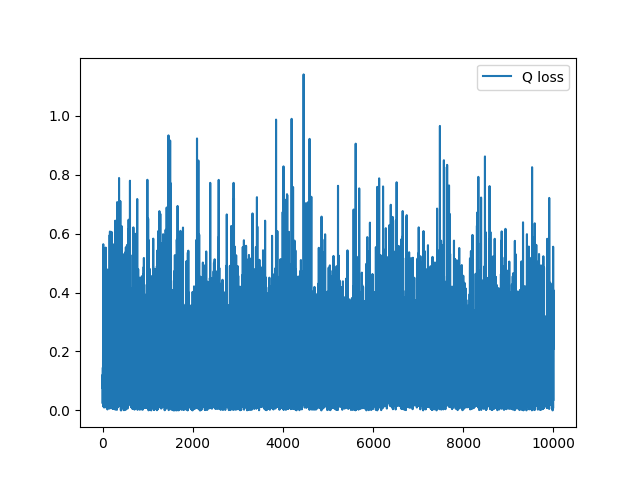
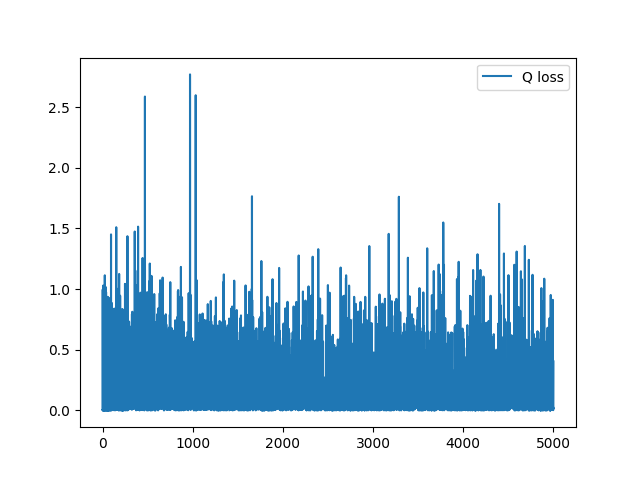
correction algo

diff --git a/actorcritic/batch_Q_based/a2c.py b/actorcritic/batch_Q_based/a2c.py
@@ -5,7 +5,7 @@ import os
 import matplotlib.pyplot as plt
 import numpy as np
 
-def A2C(buffer,Qvalue,optimizerQ,p,optimizerpi,env,N, batch_size, n_epochs, loadpath,loadopt, freqsave=100, epsilon = 0.1, K = 1, start = 0):
+def A2C(buffer,Qvalue,optimizerQ,p,optimizerpi,env,N, batch_size, n_epochs, loadpath,loadopt, freqsave=100, epsilon = 0.1, K = 1, start = 0, gamma =.9):
 
     def collection(M):
         #choose some policy for the collection like the greedy one
@@ -14,42 +14,25 @@ def A2C(buffer,Qvalue,optimizerQ,p,optimizerpi,env,N, batch_size, n_epochs, load
                      "new_state":[],
                      "reward": []}
         init_samp["state"] = torch.randint(0,env.Nx*env.Ny,(M,))
-        #init_samp["action"]  = Qvalue.amax_epsilon(init_samp["state"], epsilon)
         init_samp["action"]  =  p(init_samp["state"])
         init_samp["new_state"], init_samp["reward"] = env.transitionvec(init_samp["action"], init_samp["state"])
         buffer.store(init_samp)
     listLosspi = []
     listLossQ = []
-    recompense_episodes = []
-    collection(batch_size)
+    retour_episodes = []
 
     for j in range(start,n_epochs+1):
         #step 1
-        s = torch.randint(0,env.Nx*env.Ny,(1,))
-        if torch.bernoulli(torch.Tensor([epsilon])):
-            a = torch.randint(0,env.Na,(1,)) 
-        else:
-            a = p(s)
-        sp,r = env.transition(a,s)
-        #buffer.print()
-        init_samp = {"state": [s],
-                     "action": [a],
-                     "new_state":[sp],
-                     "reward": [r]}
-        #print("init_samp", init_samp)
-        buffer.store(init_samp)
-        #buffer.print()
+        collection(batch_size)
         #step 2
-        #s,a,sp,r = buffer.sample(batch_size)
-
         samp = buffer.sample(batch_size)
         for i in range(K):
             ap = p(samp["new_state"])
             #step 3 Q update
-            targets = samp["reward"] + env.gamma*Qvalue(samp["new_state"],ap).squeeze()
+            targets = samp["reward"] + gamma*Qvalue(samp["new_state"],ap).squeeze()
             #targets computation
             optimizerQ.zero_grad()
-            loss = F.mse_loss(Qvalue(samp["state"],samp["action"]).squeeze(),targets)
+            loss = F.mse_loss(Qvalue(samp["state"],samp["action"]).squeeze(),targets.squeeze())
             loss.backward()
             optimizerQ.step()
             #step 4 and 5
@@ -58,13 +41,13 @@ def A2C(buffer,Qvalue,optimizerQ,p,optimizerpi,env,N, batch_size, n_epochs, load
             api, logits_ap = p(samp["state"], logit = True)
             logpi = F.cross_entropy(logits_ap,env.representationaction(api),weight = None, reduction = 'none')
             #V_batch est l'espérance conditionnelle de Q par rapport à s.
-            #V_batch = torch.stack([torch.sum(torch.mul(Qvalue([si]*env.Na,torch.arange(env.Na)).squeeze(),F.softmax(logits_ap,dim=1).squeeze().detach())) for si in s])
-            #print("V_batch shape", V_batch.shape)
-            advantage = Qvalue(samp["state"],api).squeeze()#-V_batch.detach() 
+            #V_batch = torch.stack([torch.sum(torch.mul(Qvalue([si]*env.Na,torch.arange(env.Na)).squeeze(),F.softmax(logits_ap,dim=1).squeeze().detach())) for si in samp["state"]])
+            ##print("V_batch shape", V_batch.shape)
+            advantage = Qvalue(samp["state"],api).squeeze().detach()#-V_batch.detach() 
             NegativPseudoLoss = torch.mean(torch.mul(logpi,advantage))
             NegativPseudoLoss.backward()
             optimizerpi.step()
-
+            #print("NevatigPseudo", NegativPseudoLoss.item())
             listLosspi.append(NegativPseudoLoss.item())
             listLossQ.append(loss.item())
 
@@ -72,18 +55,19 @@ def A2C(buffer,Qvalue,optimizerQ,p,optimizerpi,env,N, batch_size, n_epochs, load
             print("epochs", j,f"/{n_epochs}")
             print("NegativPseudoLoss",torch.mean(torch.Tensor(listLosspi)))
             print("Loss Q", torch.mean(torch.Tensor(listLossQ)))
-            if len(recompense_episodes)>0:
-                print("moyenne nombre iterations", np.mean(recompense_episodes))
+            if len(retour_episodes)>0:
+                print("retour dernier episode", retour_episodes[-1])
             torch.save(p.state_dict(), os.path.join(loadpath,f"pi_load_{j}.pt"))
             torch.save(optimizerpi.state_dict(), os.path.join(loadopt,f"opt_pi_load_{j}.pt"))
             torch.save(Qvalue.state_dict(), os.path.join(loadpath,f"q_load_{j}.pt"))
             torch.save(optimizerQ.state_dict(), os.path.join(loadopt,f"opt_q_load_{j}.pt"))
 
         if j%1000==0 and j>2000:
-            recompense_episodes.append(testfunc(p,env, epsilon))
+            list_retour, iterations = testfunc(p,env, epsilon)
+            retour_episodes.append(list_retour[0])
             print("plot")
             plt.figure()
-            plt.semilogy(recompense_episodes, label="nombre d'iterations pour que l'agent reuisse")
+            plt.semilogy(retour_episodes, label="retour episode pour l'etat initial")
             plt.legend()
             plt.savefig("recompense")
             plt.close()
@@ -100,14 +84,15 @@ def A2C(buffer,Qvalue,optimizerQ,p,optimizerpi,env,N, batch_size, n_epochs, load
             plt.savefig("Qloss")
             plt.close()
         #return 0
-    return listLosspi, recompense_episodes
+    return listLosspi, retour_episodes
 
 
 
-def testfunc(p, env, epsilon, plot = False):
+def testfunc(p, env, epsilon, plot = False, gamma = .9):
     i = 0
     s = torch.randint(0,env.Na,(1,)).item()
     rewardlist = []
+    list_recompense =[]
     while True:
         if torch.bernoulli(torch.Tensor([epsilon])):
             a = torch.randint(0,env.Na,(1,)) 
@@ -115,11 +100,14 @@ def testfunc(p, env, epsilon, plot = False):
             a  = p([s])
         sp,R = env.transition(a,s)
         s = sp
-        i+=1
         rewardlist.append(R)
         if plot:
             env.grid(s)
             print("")
+        list_recompense.append(R*gamma**i)
         if s==env.G:
             break
-    return i
+        i+=1
+    list_retour = [sum(list_recompense[i:]) for i in range(len(list_recompense))]
+    print(f"{i} iterations")
+    return list_retour, i

diff --git a/actorcritic/batch_Q_based/main.py b/actorcritic/batch_Q_based/main.py
@@ -14,27 +14,28 @@ import matplotlib.pyplot as plt
 
         
 if __name__=="__main__":
-    train = False
+    train = True
     test = True
-    start = 1000
-    epsilon = 0.1
+    start = 0
+    epsilon = 0.
     gamma = .9
     nx = 6
     ny = 6
     G = 10
     N = 3 
-    batch_size = 2
-    n_epochs = 10000
+    batch_size = 1
+    maxsize = 1
+    K = 1
+    n_epochs = 5000
     loadpath = "loads"
     loadopt = "opt"
 
-    env = grid(nx,ny,G = G, gamma =gamma) 
+    env = grid(nx,ny,G = G) 
     p = policy(env)
     Qvalue = Q(env)
     optimizerpi = optim.Adam(p.parameters(), lr = 1e-2) 
     optimizerQ = optim.Adam(Qvalue.parameters(), lr = 1e-2) 
-    buffer = Buffer()
-    buffer.maxsize = 100
+    buffer = Buffer(maxsize)
 
     if start>0:
         p.load_state_dict(torch.load(os.path.join(loadpath,         f"pi_load_{start}.pt"),weights_only=True))
@@ -42,14 +43,10 @@ if __name__=="__main__":
         Qvalue.load_state_dict(torch.load(os.path.join(loadpath,    f"q_load_{start}.pt"),weights_only=True))
         optimizerQ.load_state_dict(torch.load(os.path.join(loadopt, f"opt_q_load_{start}.pt"),weights_only=True))
     if train:
-        listLosspi = A2C(buffer,Qvalue,optimizerQ,p,optimizerpi,env,N, batch_size, n_epochs, loadpath,loadopt, epsilon, start = 0)
+        listLosspi,N = A2C(buffer,Qvalue,optimizerQ,p,optimizerpi,env,N, batch_size, n_epochs, loadpath,loadopt, epsilon, start = 0, gamma = gamma, K = K)
+        #print("listLosspi", listLosspi)
         """
         Il faut que la negativ pseudo loss decroisse en avec le nombre d'epochs, ce qui est bien le cas
         """
-        plt.figure()
-        plt.plot(listLosspi, label="Negativ pseudo loss")
-        plt.legend()
-        plt.savefig("loss/NegativPseudoLossPi")
-        plt.show()
     if test:
         testfunc(p, env, epsilon = 0, plot = True)

diff --git a/actorcritic/online_V_actor_critic/main.py b/actorcritic/online_V_actor_critic/main.py
@@ -44,6 +44,6 @@ if __name__=="__main__":
         optimizerV.load_state_dict(torch.load(os.path.join(loadopt, f"opt_q_load_{start}.pt"),weights_only=True))
         print("chargement poids")
     if train:
-        listLosspi = AC(Vfunc,optimizerV,p,optimizerpi,env, n_episodes, loadpath,loadopt, start = start, K = 20, gamma =gamma)
+        listLosspi = AC(Vfunc,optimizerV,p,optimizerpi,env, n_episodes, loadpath,loadopt, start = start, K = 1, gamma =gamma)
     if test:
         testfunc(p, env, epsilon = epsilon, plot = True)

diff --git a/actorcritic/batch_Q_based/policy.py b/actorcritic/batch_Q_based/policy.py
@@ -20,11 +20,8 @@ class policy(nn.Module):
         out = self.actv(out)
         logits  = self.linear3(out)
         logits  = torch.sigmoid(self.linear3(out))
-        #logits = F.softmax(out,dim=1)
-        print(F.softmax(logits,dim=1))
-        print(logits)
         dist = distributions.Categorical(F.softmax(logits,dim=1))  
-        action  = dist.sample([1]).squeeze()
+        action  = dist.sample([1])
         if logit:
             out =  action, logits
         else:

diff --git a/actorcritic/online_V_actor_critic/README.md b/actorcritic/online_V_actor_critic/README.md
@@ -1,1 +1,1 @@
-# Parallel actor critic implementation
+# Actor critic implementation with State value fonction
